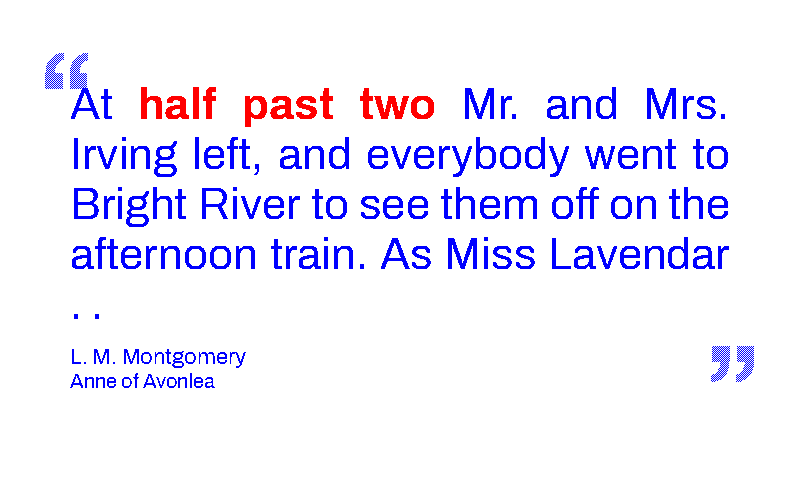
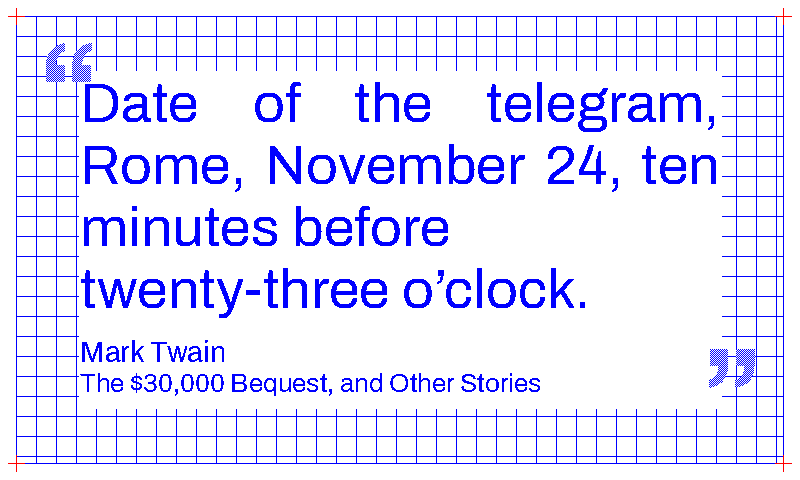
Make blueprint grid quote-aware

diff --git a/render_quote.py b/render_quote.py
@@ -913,59 +913,64 @@ def draw_bauhaus_border(image: Image.Image, colors: dict) -> None:
     )
 
 
-def draw_blueprint_border(image: Image.Image, colors: dict) -> None:
+def draw_blueprint_border(image: Image.Image, colors: dict, clear_rect: tuple[int, int, int, int] | None = None) -> None:
     """Paint a drafting-sheet border and graph-paper grid over the canvas.
 
     A thin outer rectangle in the body-text blue plus four small red
     crosshair "registration marks" centred on the frame corners — the
     print-alignment tick used on engineering drawings and blueprints —
     with a thin blue graph-paper grid inside the frame so the ground
-    reads as engineering paper rather than an empty sheet. Parallels
-    the bauhaus-border pattern (outer frame + four corner graphics)
-    but swaps filled geometric primitives for precision linework.
-
-    Drawn after the page_bg fill and before any text. Rendering order
-    is grid → outer frame → crosshairs, so the frame edge stays crisp
-    and the red registration marks layer cleanly on top. Text is
-    painted later by ``render``, so glyphs sit over the grid and the
-    rules show through only between letters — the "writing on graph
-    paper" effect.
+    reads as engineering paper rather than an empty sheet. When
+    ``clear_rect`` is provided, the grid skips that quote-sized window so
+    the text block gets a calmer field without losing the drafting-sheet
+    frame and corner marks.
     """
     draw = ImageDraw.Draw(image)
     width, height = image.size
     frame_inset = 16
-    frame_color = colors["text"]
+    frame_color = colors["subtle"]
+    border_color = colors["text"]
     mark_color = colors["accent"]
 
-    # Graph-paper grid — thin blue rules at a fixed spacing inside the
-    # outer frame. Strictly interior so the frame's 1px edge stays the
-    # single defining line of the sheet.
     grid_spacing = 20
     grid_left = frame_inset + 1
     grid_right = width - 2 - frame_inset
     grid_top = frame_inset + 1
     grid_bottom = height - 2 - frame_inset
+
+    if clear_rect is not None:
+        clear_left, clear_top, clear_right, clear_bottom = clear_rect
+    else:
+        clear_left = clear_top = clear_right = clear_bottom = None
+
     x = frame_inset + grid_spacing
     while x <= grid_right:
-        draw.line((x, grid_top, x, grid_bottom), fill=frame_color, width=1)
+        if clear_rect is None or x < clear_left or x > clear_right:
+            draw.line((x, grid_top, x, grid_bottom), fill=frame_color, width=1)
+        else:
+            if grid_top < clear_top:
+                draw.line((x, grid_top, x, clear_top), fill=frame_color, width=1)
+            if clear_bottom < grid_bottom:
+                draw.line((x, clear_bottom, x, grid_bottom), fill=frame_color, width=1)
         x += grid_spacing
+
     y = frame_inset + grid_spacing
     while y <= grid_bottom:
-        draw.line((grid_left, y, grid_right, y), fill=frame_color, width=1)
+        if clear_rect is None or y < clear_top or y > clear_bottom:
+            draw.line((grid_left, y, grid_right, y), fill=frame_color, width=1)
+        else:
+            if grid_left < clear_left:
+                draw.line((grid_left, y, clear_left, y), fill=frame_color, width=1)
+            if clear_right < grid_right:
+                draw.line((clear_right, y, grid_right, y), fill=frame_color, width=1)
         y += grid_spacing
 
-    # Outer thin rectangle — 1px line in the blueprint body blue, like
-    # the printed border on a drafting sheet.
     draw.rectangle(
         (frame_inset, frame_inset, width - 1 - frame_inset, height - 1 - frame_inset),
-        outline=frame_color,
+        outline=border_color,
         width=1,
     )
 
-    # Corner crosshair registration marks in the accent (dimension-mark)
-    # red. Each "+" is centred on the frame corner so the frame appears
-    # to pass through the centre of the mark, echoing how registration
-    # marks anchor sheet borders on real engineering drawings.
     arm = 8
     centres = [
         (frame_inset, frame_inset),
@@ -1294,7 +1299,6 @@ def render_source_card(quote_row: dict, width: int, height: int, theme: str = "d
     """
     colors = THEMES[theme]
     image = Image.new("RGB", (width, height), color=colors["page_bg"])
-    _paint_theme_border(image, theme, colors)
     draw = ImageDraw.Draw(image)
 
     title_text = (quote_row.get("title") or fallback_title(quote_row) or "Unknown source").strip()
@@ -1407,6 +1411,80 @@ def render(time_str: str, quote_row: dict, width: int, height: int, mode: str = 
     block_bottom = block_top + total_h
     quote_top = block_top
 
+    quote_line_boxes = []
+    quote_left_edge = width
+    quote_right_edge = 0
+    y_probe = quote_top
+    total_lines = len(wrapped_quote)
+    for line_index, line in enumerate(wrapped_quote):
+        start = 0
+        while start < len(line) and line[start][0].strip() == "":
+            start += 1
+        end = len(line)
+        while end > start and line[end - 1][0].strip() == "":
+            end -= 1
+        drawable = line[start:end]
+
+        current_width = 0
+        for chunk, is_bold in drawable:
+            font = quote_font_bold if is_bold else quote_font
+            bbox = draw.textbbox((0, 0), chunk, font=font)
+            current_width += bbox[2] - bbox[0]
+
+        space_slots = sum(1 for chunk, _ in drawable if chunk == " ")
+        is_last = line_index == total_lines - 1
+        slack = layout["max_width"] - current_width
+        distribute = []
+        if not is_last and space_slots > 0 and 0 < slack <= layout["max_width"] * 0.25:
+            base = slack // space_slots
+            remainder = slack - base * space_slots
+            distribute = [base + (1 if i < remainder else 0) for i in range(space_slots)]
+
+        line_x = (width - layout["max_width"]) // 2
+        line_left = None
+        line_right = line_x
+        space_idx = 0
+        for chunk, is_bold in drawable:
+            if line_left is None and chunk.strip():
+                line_left = line_x
+            font = quote_font_bold if is_bold else quote_font
+            bbox = draw.textbbox((0, 0), chunk, font=font)
+            line_x += bbox[2] - bbox[0]
+            if chunk.strip():
+                line_right = line_x
+            if distribute and chunk == " ":
+                line_x += distribute[space_idx]
+                space_idx += 1
+        if line_left is not None:
+            quote_line_boxes.append((line_left, y_probe, line_right, y_probe + line_height))
+            quote_left_edge = min(quote_left_edge, line_left)
+            quote_right_edge = max(quote_right_edge, line_right)
+        y_probe += line_height
+
+    clear_rect = None
+    if theme == "blueprint" and quote_line_boxes:
+        clear_pad_x = 2
+        clear_pad_top = 2
+        clear_pad_bottom = 2
+        clear_top = max(0, quote_line_boxes[0][1] - clear_pad_top)
+        clear_bottom = min(height - 1, block_bottom + clear_pad_bottom)
+        clear_rect = (
+            max(0, quote_left_edge - clear_pad_x),
+            clear_top,
+            min(width - 1, quote_right_edge + clear_pad_x),
+            clear_bottom,
+        )
+
+    if theme == "blueprint":
+        _paint_theme_border(image, theme, colors)
+        if clear_rect is not None:
+            clear_draw = ImageDraw.Draw(image)
+            clear_draw.rectangle(clear_rect, fill=colors["page_bg"])
+            draw_blueprint_border(image, colors, clear_rect=clear_rect)
+    else:
+        _paint_theme_border(image, theme, colors)
+
+    draw = ImageDraw.Draw(image)
     show_debug = mode == "debug"
 
     mark_size = min(layout["mark_max"], max(layout["mark_min"], int(chosen_size * layout["mark_scale"])))
